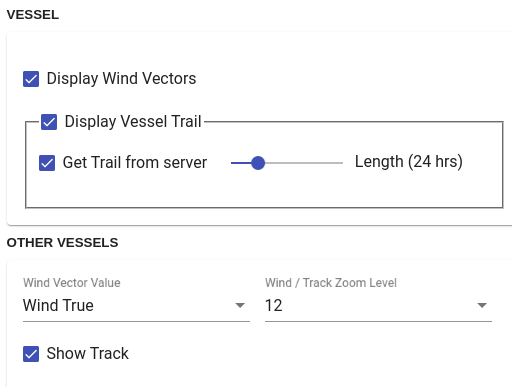
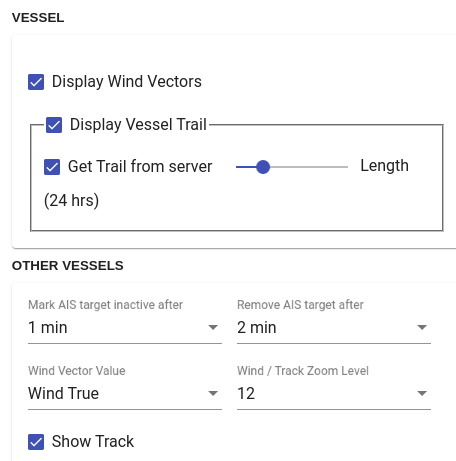
chore: update help

diff --git a/src/assets/help/index.html b/src/assets/help/index.html
@@ -1008,7 +1008,7 @@
                     <b>VESSEL:</b><br>
                     This section provides choices when displaying data for 
                     the vessel.<br>
-                    <img src="./img/settings_other_vessels.png" style="height:200px;"/><br>
+                    <img src="./img/settings_other_vessels.png" style="height:350px;"/><br>
 
                     <li>
                         <b>Display Wind Vectors</b>: Select to display wind vectors for the vessel on the map.
@@ -1043,6 +1043,14 @@
                     <b>OTHER VESSELS:</b><br>
                     This section provides choices when displaying data for 
                     other vessels.<br>
+                    <li>
+                        <b>Mark AIS Target inactive after</b>: 
+                        Maximum time (in minutes) elapsed between updates before the vessel is displayed as inactive.
+                    </li>
+                    <li>
+                        <b>Remove AIS Target after</b>: 
+                        Maximum time (in minutes) elapsed between updates before the vessel is removed from map. 
+                    </li>
                     <li>
                         <b>Wind Vector Value</b>: <i>Wind True</i> / <i>Wind Apparent</i>
                         Value used to display wind vector for other vessels displayed on the map.
@@ -1210,6 +1218,51 @@
                     for more details regarding the file format.                   
                 </p>
             </div>
+
+
+            <div>
+                <p>
+                    <b>SIGNAL K CONNECTION:</b><br>
+                    This section allows you to set parameters for the information received via the 
+                    Signal K stream connection providing control over the volume and type of data 
+                    to be displayed.<br>
+                    <i>Note: The Signal K data stream can deliver a large volume of data depending on the 
+                        data sources you have connected. The processing of large quantities of data can have a 
+                        significant impact on application performance when many items are displayed on the map.
+                    </i><br>
+                   
+                    <img src="./img/settings_signalk.png" style="height:350px;"/><br>
+
+                    <h5>Filter Stream Data:</h5>
+                    Use the options in this section to select which data types you want Freeboard to display.<br>
+                    
+                    <li>
+                        <b>Vessels</b>: Display vessels (other than your own) on the map. <i>(Default is checked)</i>
+                    </li>
+
+                    <li>
+                        <b>Aids to Navigation</b>: Display AtoNs on the map. <i>(Default is checked)</i>
+                    </li>
+
+                    <li>
+                        <b>Aircraft</b>: Display aircraft on the map. <i>(Default is unchecked)</i>
+                    </li>
+                    
+                    <li>
+                        <b>Search and Rescue</b>: Display SaR beacons on the map. <i>(Default is unchecked)</i>
+                    </li>
+
+                    <li>
+                        <b>Max Distance from Vessel</b>: Set the distance from your vessel that targets must be within
+                        to be displayed on the map.<br>
+                        The distance represents the radius of a bounding box around your vessel.<br>
+                        Select none to include all received targets.
+                        <i>(Default is None)</i>
+                    </li>
+
+                </p>    
+            </div>
+
             <div class="panel" id="experiments">
                 <h4><i class="material-icons">science</i> Experiments</h4>
                 <p>
